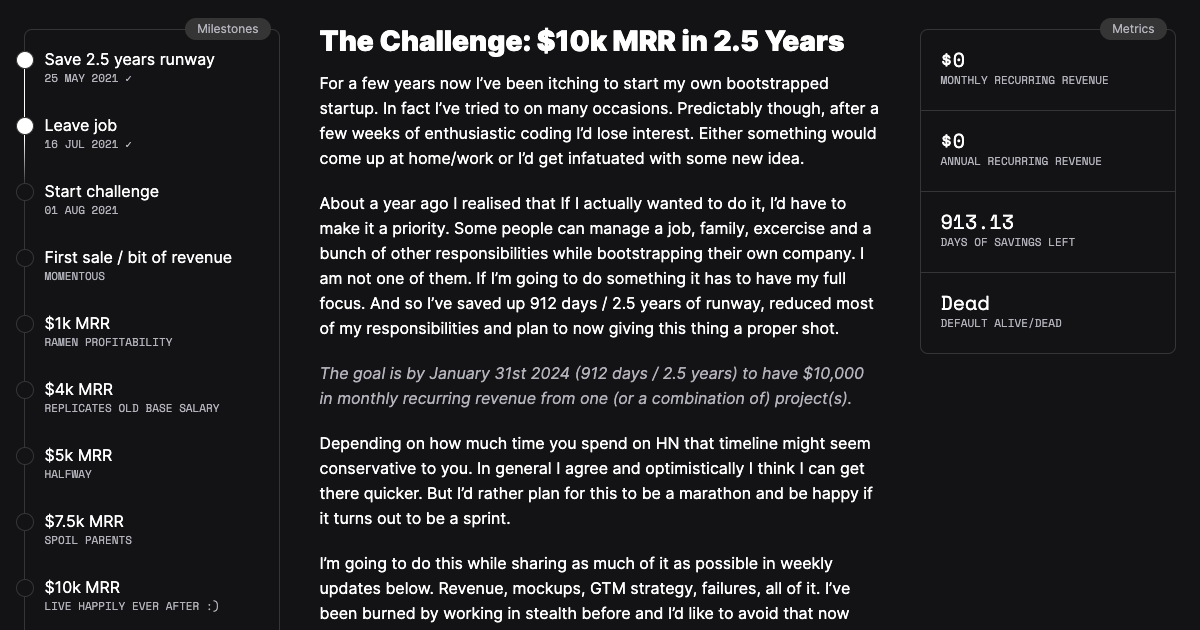
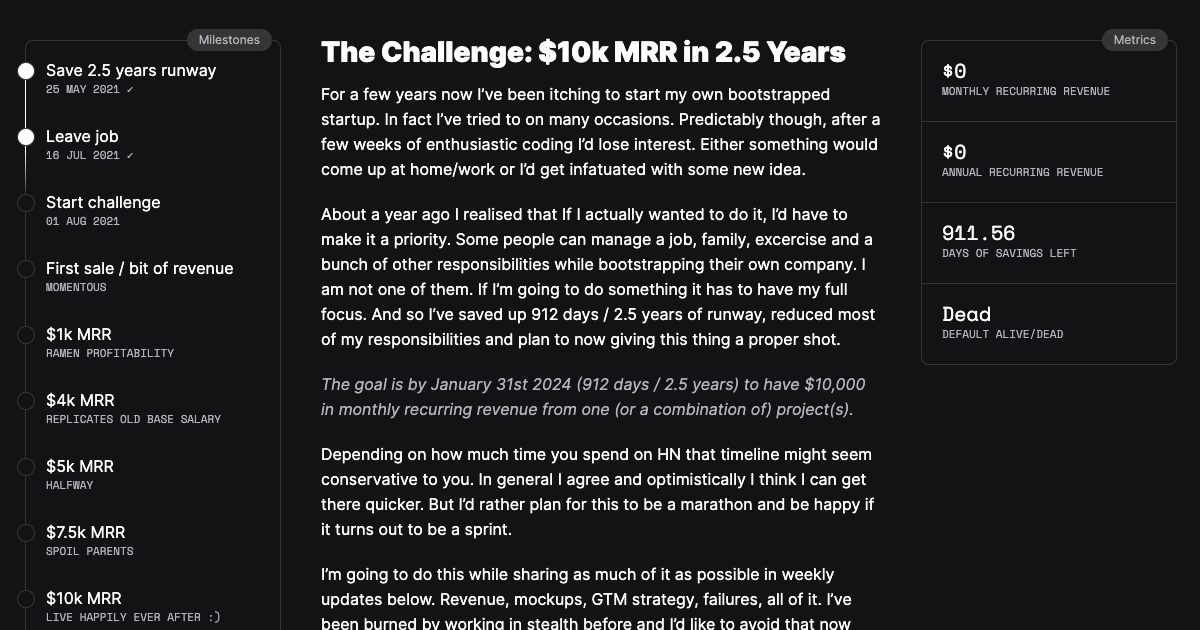
Update challenge page

diff --git a/components/TenKMilestones.vue b/components/TenKMilestones.vue
@@ -4,8 +4,8 @@
     <div class="tenk-widget-content milestones-content">
       <TenKMilestonesItem title="Save 2.5 years runway" date="25 May 2021" :complete="true" />
       <TenKMilestonesItem title="Leave job" date="16 Jul 2021" :complete="true" />
-      <TenKMilestonesItem title="Start challenge" date="01 Aug 2021" :complete="false" />
-      <TenKMilestonesItem title="First sale / bit of revenue" date="Momentous" :complete="false" />
+      <TenKMilestonesItem title="Start challenge" date="01 Aug 2021" :complete="true" />
+      <TenKMilestonesItem title="First sale / bit of revenue" date="Don’t care how" :complete="false" />
       <TenKMilestonesItem title="$1k MRR" date="Ramen profitability" :complete="false" />
       <TenKMilestonesItem title="$4k MRR" date="Replicates old base salary" :complete="false" />
       <TenKMilestonesItem title="$5k MRR" date="Halfway" :complete="false" />
